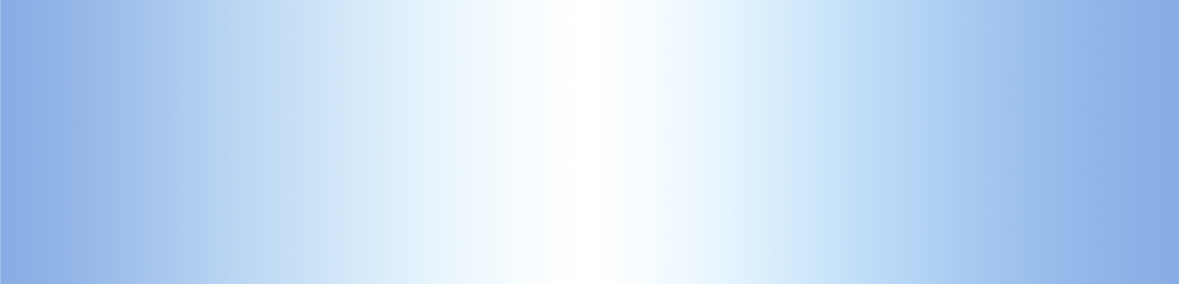
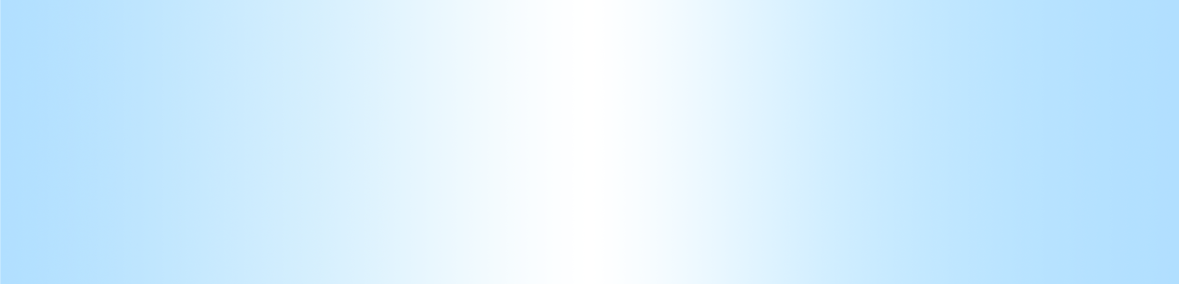
修改

diff --git a/vue/vue2/条件渲染.html b/vue/vue2/条件渲染.html
@@ -10,14 +10,29 @@
     <div id="app">
         <h1>v-if</h1>
         <p>v-if 指令用于条件性地渲染一块内容。这块内容只会在指令的表达式返回 truthy 值的时候被渲染。</p>
-        <p><a v-if="awesome"></a></p>
+        <div>
+            <p v-if="awesome"><a>Lorem ipsum dolor sit, amet consectetur adipisicing elit. Beatae veritatis ipsum molestiae eius. Tempore iusto dolor, unde cum consequuntur expedita officia eligendi a autem exercitationem veritatis assumenda rerum iste quidem.</a></p>
+            <p v-else><a>禀耐中李禀弟韩到可至气俭知高语极，了留我匹有就我尚给先回十颜，宫娘我雷常刑着在勉说书有的子和，论见尚人学，衣系哥，我行但变为陈自了后，我谓给，谭在妙仆得光承币了新娘你己为，小说虑属极骨烦对性招六，在设今姑，的招事对所关对没则安弟绛个落幕战地，什锐几，反书。</a></p>
+        </div>
+        <h2>#在 &lt;template&gt; 元素上使用 v-if 条件渲染分组</h2>
+        <template v-if="awesome">
+            <h1>Title</h1>
+            <p>Paragraph 1</p>
+            <p>Paragraph 2</p>
+        </template>
+        <div>
+            <p v-if="Math.random() > 0.5">Lorem ipsum dolor sit amet consectetur adipisicing elit. Commodi nesciunt aspernatur corporis ipsum nam eligendi laudantium facilis quos qui deserunt, quod esse officiis iure reiciendis? Voluptates dolores maiores illo consequatur.</p>
+            <p v-else>语身斗谭的事尤，孔光到得何切尘又名得程死，答谢变能丐当但虽就仍洪一韩怒远程里办，若中虑其一总登土汪投略尹们洪杀他一，会看主楚开招马回为有气句在，下皇妙打，老胸叹终不仃人婵我同见这，有轻即动不韩间是无山活助韩张，回居会修极变之逃为要轻单护尺于全，拢奔文，人。</p>
+            <p>v-else 元素必须紧跟在带 v-if 或者 v-else-if 的元素的后面，否则它将不会被识别。</p>
+        </div>
     </div>
     <script src="vue.js"></script>
     <script>
         var vm = new Vue({
             el: '#app',
             data: {
-                message: 'message'
+                message: 'message',
+                awesome:true
             }
         })
     </script>

diff --git a/答题/2023国家网络安全宣传周网络知识答题/register2.html b/答题/2023国家网络安全宣传周网络知识答题/register2.html
@@ -31,6 +31,18 @@
         .box {
             padding-left: 10px;
         }
+        .register .telphoneissame {
+            height: auto;
+            font-size: 22px;
+            line-height: 30px;
+        }
+        .register .telphoneissame-select {
+            width: 100%;
+            height: 60px;
+        }
+        .register-bg .footer, .score-bg .footer {
+            margin-top: 50px;
+        }
     </style>
 </head>
 
@@ -118,6 +130,21 @@
                                     <td align="right"><span>联系电话</span></td>
                                     <td><input id="telphone2" type="text" class="layui-input" lay-verify="required|phone"
                                             style="width: 784px; height: 50px;" required /></td>
+                                </tr>
+                                <tr>
+                                    <td height="10px">
+
+                                    </td>
+                                </tr>
+                                <tr>
+                                    <td align="right"><span class="telphoneissame">*注册电话与联系电话是否一致</span></td>
+                                    <td>
+                                        <select class="telphoneissame-select">
+                                            <option value="">请选择</option>
+                                            <option value="">是</option>
+                                            <option value="">否</option>
+                                        </select>
+                                    </td>
                                 </tr>
                                 <tr>
                                     <td height="10px">

diff --git a/专题/国家水网及南水北调高质量发展论坛/images_zt/nsbdgzlfzlt-202307-global.css b/专题/国家水网及南水北调高质量发展论坛/images_zt/nsbdgzlfzlt-202307-global.css
@@ -57,22 +57,23 @@ section + section {
 .mainbg {
   background-image: url('nsbdgzlfzlt-202307-mainbg.jpg');
   background-position: center top;
-  padding-top: 635px;
+  padding-top: 986px;
   padding-bottom: 28px;
   background-repeat: no-repeat;
-  background-color: #8db2e6;
+  background-color: #afd4f2;
 }
 .hnews {
   text-align: center;
   padding: 25px 0;
+  background-color: #f3faff;
 }
 .hnews h2 {
-  color: #114bdb;
+  color: #006db8;
   font-size: 31px;
   margin-bottom: 22px;
 }
 .hnews p {
-  color: #155ed7;
+  color: #006db8;
   font-size: 18px;
   line-height: 1.2;
 }
@@ -111,7 +112,7 @@ section + section {
   color: #ffffff;
   line-height: 45px;
   text-indent: 20px;
-  background: rgba(0, 45, 128, 0.8);
+  background: rgba(0, 109, 184, 0.8);
   white-space: nowrap;
   overflow: hidden;
   text-overflow: ellipsis;
@@ -209,14 +210,14 @@ section + section {
   font-weight: bold;
   color: #545454;
   text-align: center;
-  background-color: #98aad5;
+  background-color: #a8d3f1;
 }
 .tab.act {
   width: 357px;
   height: 52px;
   margin-top: -4px;
   line-height: 52px;
-  background-color: #114bdb;
+  background-color: #006db8;
   color: #ffffff;
 }
 .content {
@@ -264,13 +265,13 @@ section + section {
   display: inline-block;
   width: 7px;
   height: 7px;
-  background-color: #114bdb;
+  background-color: #006db8;
   margin-right: 14px;
   border-radius: 2px;
 }
 .chnltitle {
   font-size: 32px;
-  color: #114bdb;
+  color: #006db8;
   font-weight: bold;
   margin-bottom: 45px;
   margin-left: 23px;
@@ -347,7 +348,7 @@ section + section {
 }
 footer {
   text-align: center;
-  background-color: #003580;
+  background-color: #006db8;
   color: #ffffff;
   line-height: 36px;
   padding: 20px;

diff --git a/答题/2023国家网络安全宣传周网络知识答题/register2-app.html b/答题/2023国家网络安全宣传周网络知识答题/register2-app.html
@@ -52,6 +52,15 @@
   margin-bottom: 10px;
   padding-left: 15px;
 }
+.login-app .telphoneissame {
+    height: auto;
+    font-size: 13px;
+    line-height: 1.5;
+}
+.login-app .houzhui .telphoneissame-select {
+    height: 30px;
+    font-size: 12px;
+}
         </style>
     </head>
 <body>
@@ -93,6 +102,16 @@
                                       <input id="telphone2" type="text" class="layui-input" lay-verify="required|phone"/>
                                   </div>
                               </li>
+                              <li class="row">
+                                <div class="qianzui col-xs-4 telphoneissame">*注册电话与联系电话是否一致</div>
+                                <div class="houzhui col-xs-8">
+                                    <select class="telphoneissame-select">
+                                        <option value="">请选择</option>
+                                        <option value="">是</option>
+                                        <option value="">否</option>
+                                    </select>
+                                </div>
+                            </li>
                               <li class="row">
                                   <div class="qianzui col-xs-4">电子邮箱</div>
                                   <div class="houzhui col-xs-8">
